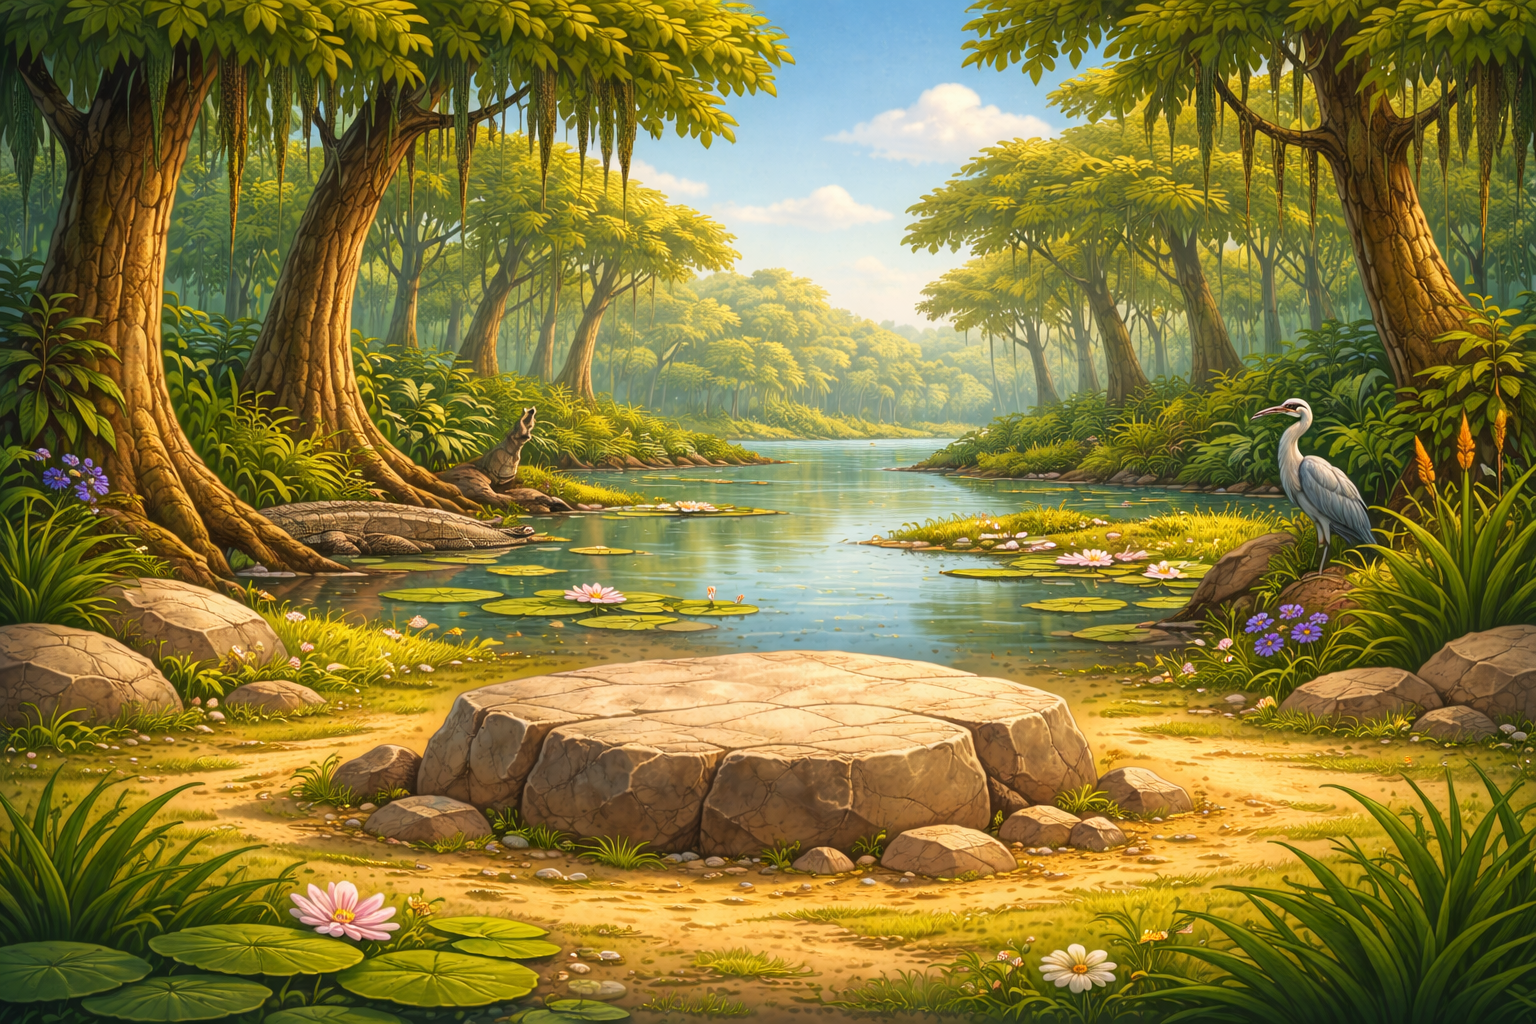
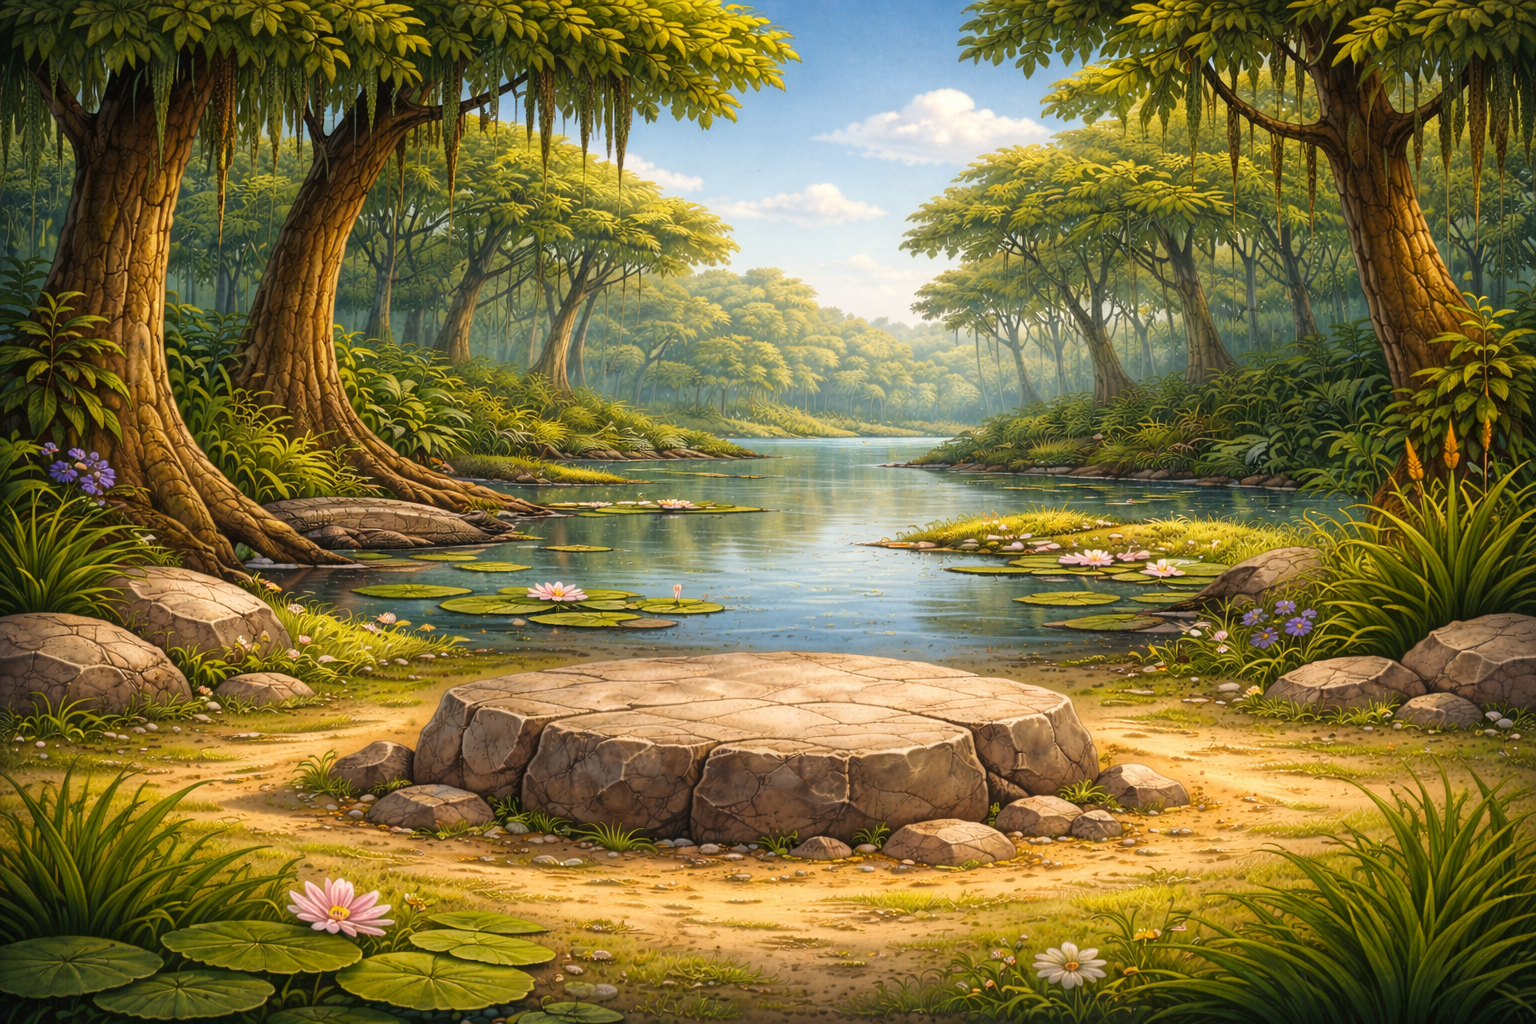
Add background images and backgrounds window

diff --git a/buddydoro/apps/web/js/features/store.js b/buddydoro/apps/web/js/features/store.js
@@ -43,6 +43,119 @@ export function initStore({ getDoros, spendDoros }) {
   'Werewolf.png'
 ];
 
+  // ----------------------------
+  // NEW: Backgrounds (day shown in store, night auto-applied at night)
+  // ----------------------------
+  const BACKGROUNDS = [
+    { key: 'African', day: 'AfricanBackgroundDay.png', night: 'AfricanBackgroundNight.png' },
+    { key: 'Arctic', day: 'ArcticBackgroundDay.png', night: 'ArcticBackgroundNight.png' },
+    { key: 'Beach', day: 'BeachBackgroundDay.png', night: 'BeachBackgroundNight.png' },
+    { key: 'Cemetery', day: 'CemeteryBackgroundDay.png', night: 'CemeteryBackgroundNight.png' },
+    { key: 'Desert', day: 'DesertBackgroundDay.png', night: 'DesertBackgroundNight.png' },
+    { key: 'Everglades', day: 'EvergladesBackgroundDay.png', night: 'EvergladesBackgroundNight.png' },
+    { key: 'Floating Island', day: 'FloatingIslandBackgroundDay.png', night: 'FloatingIslandBackgroundNight.png' },
+    { key: 'Inca', day: 'IncaBackgroundDay.png', night: 'IncaBackgroundNight.png' },
+    { key: 'Japanese', day: 'JapaneseBackgroundDay.png', night: 'JapaneseBackgroundNight.png' },
+    { key: 'Jungle', day: 'JungleBackgroundDay.png', night: 'JungleBackgroundNight.png' },
+    { key: 'Mayan', day: 'MayanBackgroundDay.png', night: 'MayanBackgroundNight.png' },
+    { key: 'Mountain', day: 'MountainBackgroundDay.png', night: 'MountainBackgroundNight.png' },
+    { key: 'Rainforest', day: 'RainforestBackgroundDay.png', night: 'RainforestBackgroundNight.png' },
+
+    // These appear to be single-file backgrounds (use same image day+night)
+    { key: 'Inner Earth', day: 'InnerEarthBackground.png', night: 'InnerEarthBackground.png' },
+    { key: 'Moon', day: 'MoonBackground.png', night: 'MoonBackground.png' },
+
+    // If Mars only has a day file in your folder, we just reuse day at night
+    { key: 'Mars', day: 'MarsBackgroundDay.png', night: 'MarsBackgroundDay.png' },
+  ];
+
+  const BG_STORAGE_KEY = 'buddydoro:selectedBackground';
+
+  function getSceneEl() {
+    return document.getElementById('scene');
+  }
+
+  // We try to detect "night" in a way that won't fight your existing backgroundnight.js.
+  // If your app adds a class like "is-night" to body/scene, we use that.
+  // Otherwise we fallback to a simple hour rule.
+  function isNightNow() {
+    const scene = getSceneEl();
+    const body = document.body;
+
+    const hasNightClass =
+      body.classList.contains('is-night') ||
+      body.classList.contains('night') ||
+      (scene && (scene.classList.contains('is-night') || scene.classList.contains('night')));
+
+    if (hasNightClass) return true;
+
+    // Fallback hour rule (adjust if your app uses different hours)
+    const h = new Date().getHours();
+    return (h >= 19 || h < 6);
+  }
+
+  function buildBgPath(file) {
+    // Your images live in: apps/web/public/assets/artwork/Backgrounds/
+    return `./assets/artwork/Backgrounds/${file}`;
+  }
+
+  function applyBackground(bg) {
+    const scene = getSceneEl();
+    if (!scene) return;
+
+    const night = isNightNow();
+    const fileToUse = night ? (bg.night || bg.day) : bg.day;
+    const url = buildBgPath(fileToUse);
+
+    // Apply inline background image (works even if backgroundnight.js exists)
+    scene.style.backgroundImage = `url("${url}")`;
+    scene.style.backgroundRepeat = 'no-repeat';
+    scene.style.backgroundPosition = 'center center';
+    scene.style.backgroundSize = 'cover';
+  }
+
+  function saveSelectedBackground(bgKey) {
+    localStorage.setItem(BG_STORAGE_KEY, bgKey);
+  }
+
+  function loadSelectedBackgroundKey() {
+    return localStorage.getItem(BG_STORAGE_KEY);
+  }
+
+  function getSelectedBackground() {
+    const key = loadSelectedBackgroundKey();
+    if (!key) return null;
+    return BACKGROUNDS.find(b => b.key === key) || null;
+  }
+
+  // Keep background synced if your day/night logic flips classes on <body> or #scene.
+  function startBackgroundNightWatcher() {
+    const scene = getSceneEl();
+    const body = document.body;
+
+    const reapply = () => {
+      const selected = getSelectedBackground();
+      if (selected) applyBackground(selected);
+    };
+
+    // Watch for class changes (common pattern for day/night toggles)
+    const obs = new MutationObserver(() => reapply());
+    obs.observe(body, { attributes: true, attributeFilter: ['class'] });
+    if (scene) obs.observe(scene, { attributes: true, attributeFilter: ['class'] });
+
+    // Also re-check periodically as a safe fallback
+    setInterval(reapply, 60 * 1000);
+  }
+
+    // Start background watcher once (keeps equipped background synced with day/night)
+  startBackgroundNightWatcher();
+
+  // If user already equipped a background previously, apply it on load
+  const previouslySelected = getSelectedBackground();
+  if (previouslySelected) {
+    applyBackground(previouslySelected);
+  }
+
 function niceNameFromFile(filename) {
   return filename
     .replace('.png', '')
@@ -142,6 +255,14 @@ function niceNameFromFile(filename) {
       return;
     }
 
+    // Backgrounds tab  ✅ goes right here
+    if (cat === 'backgrounds') {
+      currentCat = 'backgrounds';
+      selectedSku = null;
+      renderBackgroundsCatalog();
+      return;
+    }
+
     // Normal store category behavior
     currentCat = cat;
     selectedSku = null;
@@ -187,6 +308,53 @@ function niceNameFromFile(filename) {
 
       grid.appendChild(card);
     });
+
+    highlightSelection();
+  }
+
+    function renderBackgroundsCatalog() {
+    grid.innerHTML = '';
+
+    BACKGROUNDS.forEach(bg => {
+      const name = bg.key; // already nice
+      const card = document.createElement('div');
+      card.className = 'card background-card';
+      card.dataset.sku = bg.key;
+
+      // IMPORTANT: show ONLY the DAY image in the store UI
+      const thumbSrc = buildBgPath(bg.day);
+
+      card.innerHTML = `
+        <div class="skin-thumb">
+          <img src="${thumbSrc}" alt="${name} background" />
+        </div>
+        <div class="item-name">${name}</div>
+        <div class="item-price">Background</div>
+        <div class="item-actions">
+          <button class="use-btn" type="button">Equip</button>
+        </div>
+      `;
+
+      // Equip button applies immediately AND saves choice
+      card.querySelector('.use-btn').addEventListener('click', () => {
+        saveSelectedBackground(bg.key);
+        applyBackground(bg);
+        showNotification(`${name} background equipped! 🌄✨`, 'success');
+      });
+
+      // Optional: click card to select outline highlight
+      card.addEventListener('click', (e) => {
+        if (e.target.tagName.toLowerCase() === 'button') return;
+        selectedSku = (selectedSku === bg.key) ? null : bg.key;
+        highlightSelection();
+      });
+
+      grid.appendChild(card);
+    });
+
+    // Highlight current selection from storage (if any)
+    const selected = getSelectedBackground();
+    if (selected) selectedSku = selected.key;
 
     highlightSelection();
   }

diff --git a/buddydoro/apps/web/public/index.html b/buddydoro/apps/web/public/index.html
@@ -264,10 +264,6 @@
     </section>
     <!-- <<< REPLACEMENT END <<< -->
 
-
-
-
-
     <!-- Timer & controls (right) -->
     <div class="right-ui">
       <div id="focusTaskName" class="focus-task-name" hidden></div>
@@ -417,8 +413,8 @@
           <button class="tab" role="tab" aria-selected="false" data-cat="play">Play</button>
           <button class="tab" role="tab" aria-selected="false" data-cat="water">Water</button>
           <button class="tab" role="tab" aria-selected="false" data-cat="medicine">Medicine</button>
-          <!-- Skins tab -->
           <button class="tab tab-skins" role="tab" aria-selected="false" data-cat="skins">Skins</button>
+          <button class="tab tab-backgrounds" role="tab" aria-selected="false" data-cat="backgrounds">Backgrounds</button>
         </div>
 
         <div id="catalogGrid" class="catalog-grid" aria-live="polite"></div>

diff --git a/buddydoro/apps/web/styles/store.css b/buddydoro/apps/web/styles/store.css
@@ -216,6 +216,25 @@
   filter: drop-shadow(0 6px 12px rgba(0,0,0,.18));
 }
 
+/* --- Backgrounds tab cards (3 per row, fixed thumb like skins) --- */
+.card.background-card .skin-thumb {
+  width: 100%;
+  height: 90px;              /* same height as skins so rows line up */
+  display: flex;
+  align-items: center;
+  justify-content: center;
+  margin-bottom: 6px;
+  overflow: hidden;          /* prevents tall images from spilling */
+  border-radius: 12px;       /* optional; matches your rounded style */
+}
+
+.card.background-card .skin-thumb img {
+  width: 100%;
+  height: 100%;
+  object-fit: cover;         /* fills the box and crops nicely */
+  display: block;
+}
+
 
 .buy-btn {
   background: linear-gradient(#ffd36b, #f2b942);
